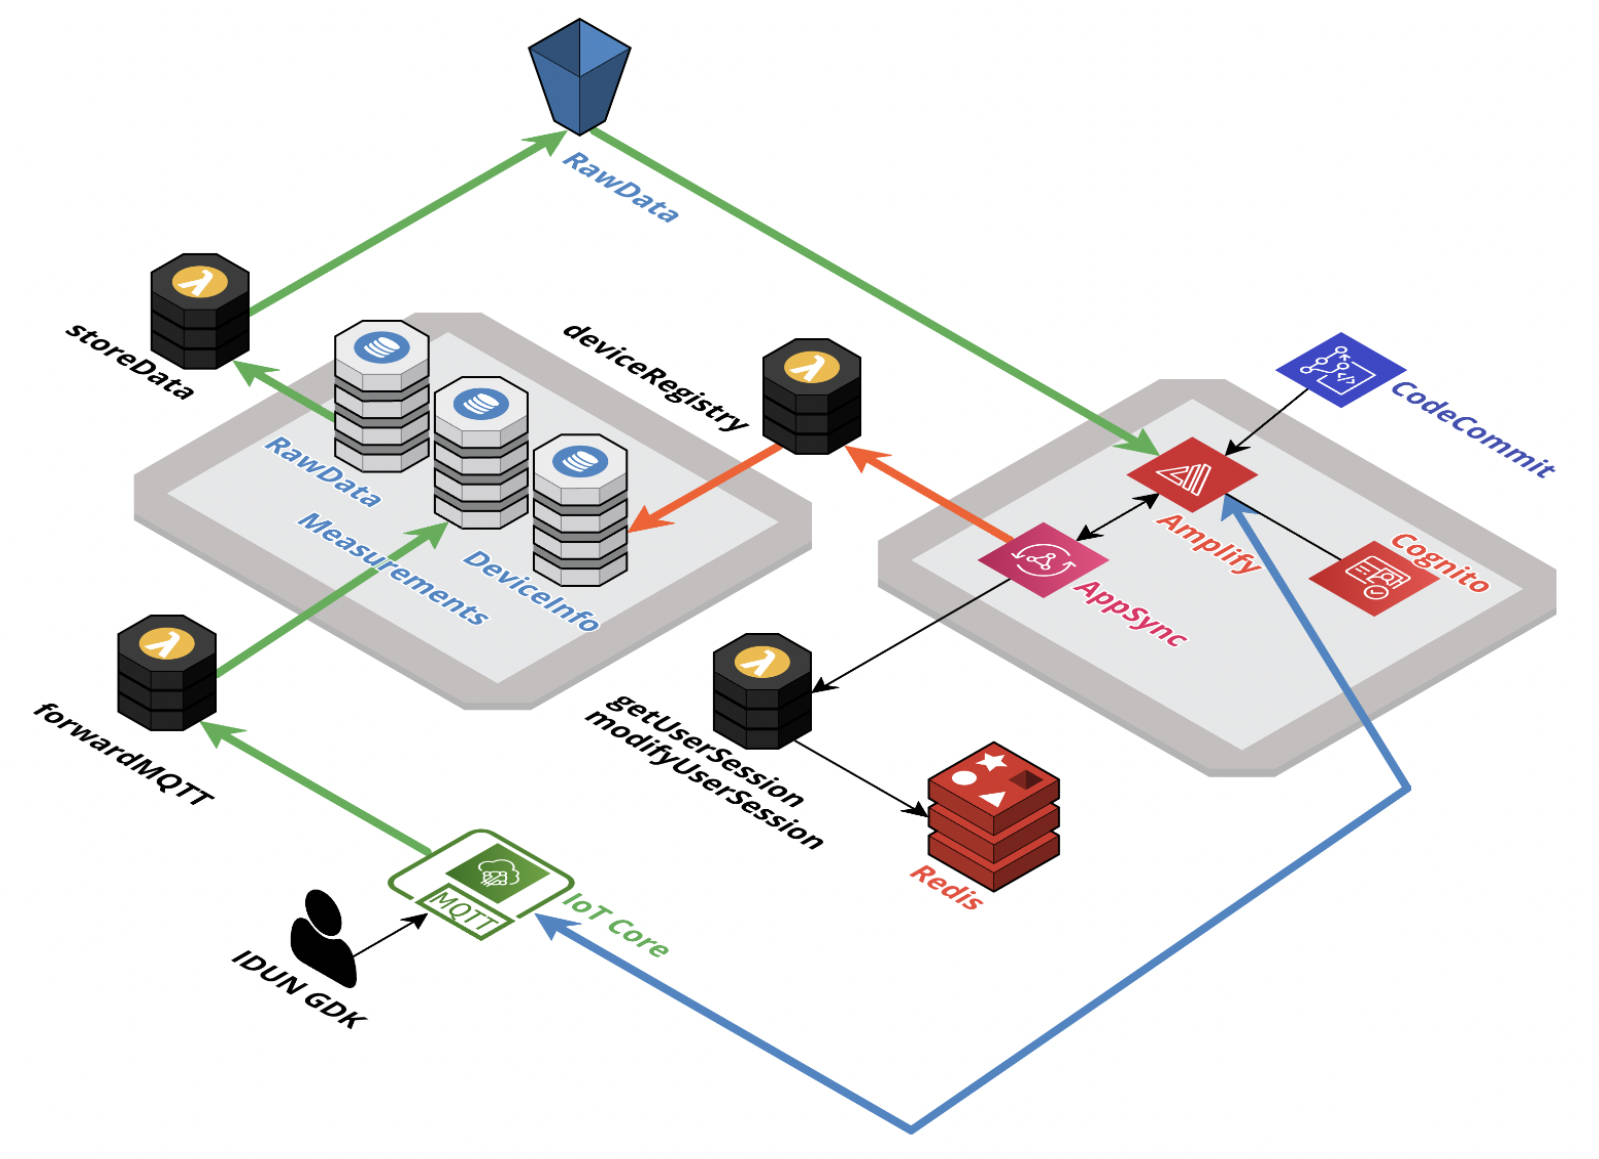
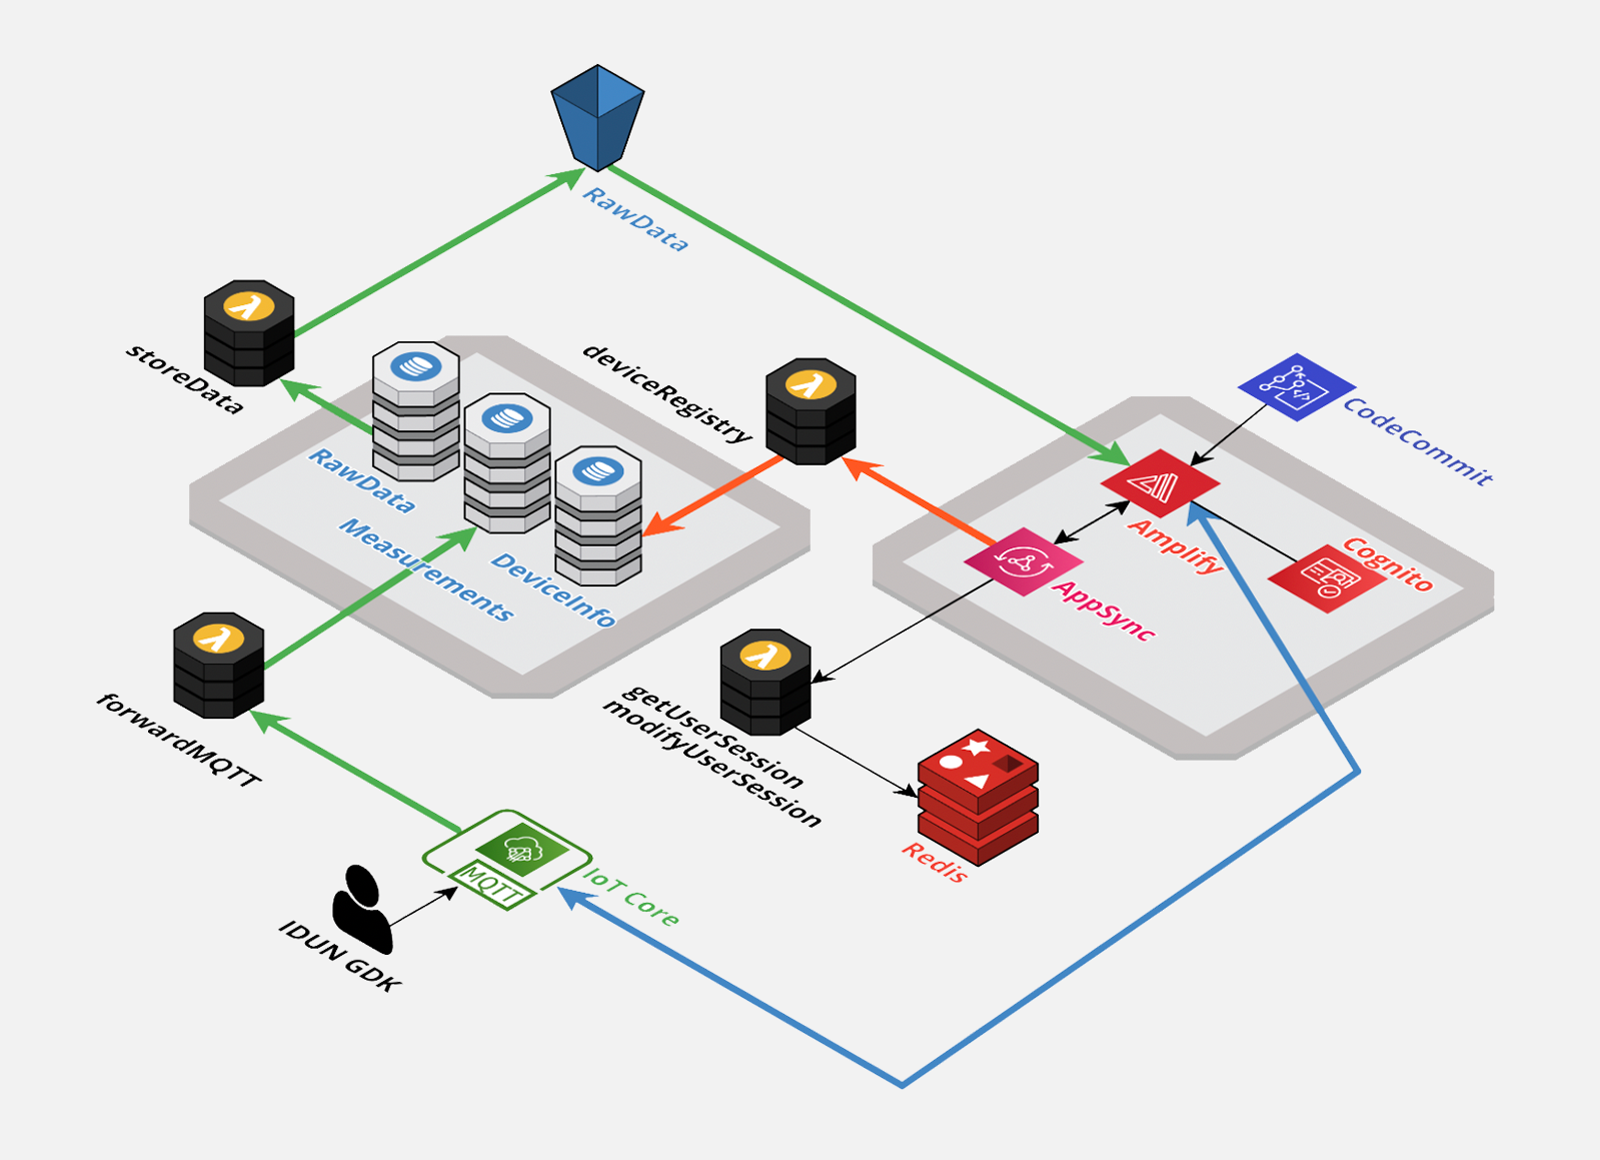
Add better figures of IDUN stuff

Changed region(s): [[0.0306, 0.0, 0.9806, 0.994], [0.3677, 0.528, 0.6742, 0.7765], [0.7048, 0.5902, 0.7355, 0.6212]]

diff --git a/thesis/src/Chapter3/chapter3.tex b/thesis/src/Chapter3/chapter3.tex
@@ -19,7 +19,7 @@ In addition to raw data, the IDUN app provided transformed data, such as, e.g. f
 
 \begin{figure}[!ht]
   \centering
-  \includegraphics[width=0.75\linewidth]{idun-amplify.png}
+  \includegraphics[width=\linewidth]{idun-amplify.png}
   \caption{IDUN's software architecture at the end of 2021.}
   \label{fig:idun-amplify}
 \end{figure}
@@ -39,7 +39,7 @@ The system was in a relatively unstable state and had strange error sources that
 \item The state of the whole application was difficult to handle due to the decoupled logic from the streaming aspect and standard CRUD operations. Combined with the lack of a hardware heartbeat, it was very tedious to figure out what the user was doing and what was being sent. As an interim solution, AWS ElastiCache, a provisioned service for in-memory databases like Redis, was set up, but the state was traded in the web app and on ElastiCache at the same time. For example, if a user left the web app during a data stream, the stream was stopped, and the EEG data was sent to the void.
 \end{itemize}
 
-Due to growing problems with the existing software system and an ever-increasing technical debt as a result of the software not being test-driven or developed without code quality standards, resulting in bugs and quirks that are difficult to track down, the author proposed to halt the implementation of new features and restructure the system from the ground up using a more software engineering-oriented approach. The company's management approved the request for such redevelopment in early December of 2021. At the time the author was already working on his original Bachelor project, which focused on a mind-controlled multiplayer game, assuming that IDUN's software system would be stable by the time the Bachelor project began. The original bachelor project's focus was officially changed at the end of 2021 to create a thesis on this refactored software system.
+Due to growing problems with the existing software system and an ever-increasing technical debt as a result of the software not being test-driven or developed without code quality standards, resulting in bugs and quirks that are difficult to track down, the author proposed to halt the implementation of new features and restructure the system from the ground up using a more software engineering-oriented approach. The company's management approved the request for such risky redevelopment in early December of 2021. At the time the author was already working on his original Bachelor project, which focused on a mind-controlled multiplayer game, assuming that IDUN's software system would be stable by the time the Bachelor project began. The original bachelor project's focus was officially changed at the end of 2021 to create a thesis on this refactored software system.
 
 \section{Case study}
 \label{chapter3-case-study}
@@ -67,7 +67,12 @@ This section describes the planned procedure for conducting a case study-based r
 
 The goal was to conduct empirical research and examine the use case from various perspectives. In addition, two other methodologies were used in the case study research: 1. User research with experts, ergo expert interviews, which entails locating experts on topics such as EEG on the cloud or BCI software and asking them questions that will assist in answering the research question of this thesis and 2. internal company group discussions. A group discussion aims to learn about other people's attitudes and opinions. As a result, group discussions are ideal for investigating topics such as behaviourally usage concepts and product perception, which align well with IDUN's goals.
 
-% IDUN's timeline, show an image from the PP slide
+\begin{figure}[!ht]
+  \centering
+  \includegraphics[width=\linewidth]{idun-timeline.png}
+  \caption{IDUN's mission timeline including where the technology is headed and how large the user base will be \citep{idun_guardian_nodate}.}
+  \label{fig:idun-timeline}
+\end{figure}
 
 % Insert table
 
@@ -99,6 +104,8 @@ The goal was to conduct empirical research and examine the use case from various
 
 % non-trivial, n-body system, Services, batch processing and near real time streaming, shared nothing, encrypted, total order broadcast etc. => all insights that were gained for the N/CI and the task to define a N/CI on its own as well + Systems of record and derived data system (p 602 to cite) ==> add some parts to the implementation chapter
 
+% However, in practice, it appears that simply making data available quickly—even if it is in a quirky, difficult-to-use, raw format—is often more valuable than trying to decide on the ideal data model up front [54].
+
 \section{Reflection}
 \label{chapter3-reflection}
 
@@ -106,6 +113,8 @@ The goal was to conduct empirical research and examine the use case from various
 \label{chapter3-further-development}
 
 % - Distributed system, data warehouse and other constraints that came up during the research etc. + non-critical, no-real-time needed, system on a chip is coming and what will it bring for things, or going directly via the internet and not the device itself, why not making that decision
+% - Data warehouse difference between data lake
+% - feature store
 
 % - First, they were randomly assigned to treatment and placebo group
 % - Both groups: 60 minutes intervention
@@ -115,7 +124,6 @@ The goal was to conduct empirical research and examine the use case from various
 % o Did you describe everything that is needed to replicate your research?
 % o Did you cite the sources of your methods or paradigms?
 
-\nomenclature[rd]{R\&D}{Research and development}
 \nomenclature[nip]{NIP}{Neuro-Intelligence Platform}
 \nomenclature[spa]{SPA}{Single-page application}
 \nomenclature[mqtt]{MQTT}{[IBM] MQ Telemetry Transport}
